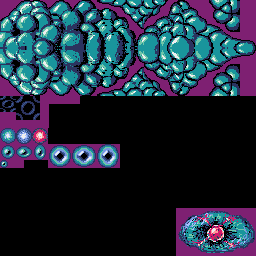
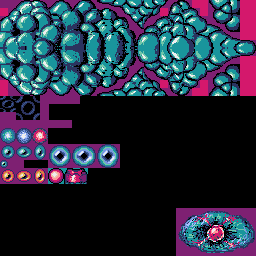
細胞ステージ

diff --git a/enemy.py b/enemy.py
@@ -693,3 +693,119 @@ class DockArm(EnemyBase):
 		pyxel.blt(self.x, self.y -self.shift, 1, 240, 64, 16, 80, gcommon.TP_COLOR)
 		pyxel.blt(self.x, self.y+ 96 +self.shift, 1, 240, 64, 16, 80, gcommon.TP_COLOR)
 		
+
+
+class Cell1(EnemyBase):
+	def __init__(self, t):
+		super(Cell1, self).__init__()
+		self.x = t[2]
+		self.y = t[3]
+		self.left = 2
+		self.top = 2
+		self.right = 13
+		self.bottom = 13
+		self.hp = 15
+		#self.layer = gcommon.C_LAYER_UNDER_GRD
+		self.layer = gcommon.C_LAYER_SKY
+		self.score = 100
+
+	def update(self):
+		if self.cnt & 32 == 0:
+			dr = gcommon.get_direction_my(self.x +8, self.y +8)
+			self.x += gcommon.direction_map[dr][0] * 1.25
+			self.y -= gcommon.direction_map[dr][1] * 1.25
+		if self.cnt & 127 == 127:
+			enemy_shot(self.x +8, self.y +8, 2, 0)
+		
+	def draw(self):
+		n = int(self.cnt/5) %3
+		pyxel.blt(self.x, self.y, 1, 0 + n* 16, 168, 16, 16, gcommon.TP_COLOR)
+
+
+class Cell1Group1(EnemyBase):
+	def __init__(self, t):
+		super(Cell1Group1, self).__init__()
+		self.startX = t[2]
+		self.startY = t[3]
+		self.hv = t[4]			# 0 横から出現   1: 上下から出現
+		self.hitCheck = False
+		self.shotHitCheck = False
+
+	def update(self):
+		if self.hv == 0:
+			if self.cnt == 0:
+				gcommon.ObjMgr.addObj(Cell1([0,0, self.startX, self.startY]))
+			elif self.cnt == 20:
+				gcommon.ObjMgr.addObj(Cell1([0,0, self.startX, self.startY + 50]))
+			elif self.cnt == 40:
+				gcommon.ObjMgr.addObj(Cell1([0,0, self.startX, self.startY + 20]))
+			elif self.cnt == 60:
+				gcommon.ObjMgr.addObj(Cell1([0,0, self.startX, self.startY + 70]))
+			elif self.cnt == 80:
+				gcommon.ObjMgr.addObj(Cell1([0,0, self.startX, self.startY + 30]))
+				self.remove()
+		else:
+			if self.cnt == 0:
+				gcommon.ObjMgr.addObj(Cell1([0,0, self.startX, self.startY]))
+			elif self.cnt == 20:
+				gcommon.ObjMgr.addObj(Cell1([0,0, self.startX +50, self.startY]))
+			elif self.cnt == 40:
+				gcommon.ObjMgr.addObj(Cell1([0,0, self.startX +20, self.startY]))
+			elif self.cnt == 60:
+				gcommon.ObjMgr.addObj(Cell1([0,0, self.startX +70, self.startY]))
+			elif self.cnt == 80:
+				gcommon.ObjMgr.addObj(Cell1([0,0, self.startX +30, self.startY]))
+				self.remove()
+
+	def draw(self):
+		pass
+
+
+class Worm1(EnemyBase):
+	def __init__(self, t):
+		super(Worm1, self).__init__()
+		pos = gcommon.mapPosToScreenPos(t[2], t[3])
+		self.x = pos[0]
+		self.y = pos[1]
+		self.downward = t[4]		# 0:上向き  1:下向き
+		self.left = 2
+		self.top = 2
+		self.right = 21
+		self.bottom = 15
+		self.hp = 40
+		#self.layer = gcommon.C_LAYER_UNDER_GRD
+		self.layer = gcommon.C_LAYER_GRD
+		self.score = 100
+		self.dr = 48
+		self.cells = []
+		for i in range(0,6):
+			self.cells.append([0,0])
+
+	def update(self):
+		if self.state == 0:
+			# 待機状態
+			if gcommon.get_distance_my(self.x + 12, self.y) < 100:
+				print("get_distance")
+				self.nextState()
+		elif self.state == 1:
+			# 触手伸ばす
+			x = 0
+			y = 0
+			r = 0
+			for pos in self.cells:
+				pos[0] = x + math.cos(gcommon.atan_table[(self.dr + r) & 63]) * 12 * (self.cnt) /30.0
+				pos[1] = y + math.sin(gcommon.atan_table[(self.dr + r) & 63]) * 12 * (self.cnt) /30.0
+				x = pos[0]
+				y = pos[1]
+				r += 1
+			if self.cnt == 30:
+				self.nextState()
+		
+	def draw(self):
+		size = len(self.cells)
+		i = 0
+		while(i<size):
+			pos = self.cells[size -1 -i]
+			pyxel.blt(self.x + 4 + pos[0], self.y + pos[1], 1, 48, 168, 16, 16, 3)
+			i += 1
+		pyxel.blt(self.x, self.y, 1, 64, 168, 24, 16, 3)

diff --git a/graslay.py b/graslay.py
@@ -490,9 +490,13 @@ class MapDraw2:
 	def update(self):
 		gcommon.map_x += gcommon.cur_scroll_x
 		gcommon.map_y += gcommon.cur_scroll_y
-
+		
 	def draw(self):
-		pyxel.bltm(-1 * (int(gcommon.map_x/2) % 8), 0, 0, int((gcommon.map_x/16)%3), 128, 33,33, gcommon.TP_COLOR)
+		dx = -1.0 * (int(gcommon.map_x/2) % 8)
+		dy = -1.0 * (int(gcommon.map_y/2) % 8)
+		sx = (int(gcommon.map_x/16)%3)
+		sy = 128 +(int(gcommon.map_y/16)%3)
+		pyxel.bltm(dx, 0, 0, sx, 128, 33,33, gcommon.TP_COLOR)
 		if gcommon.map_x < 0:
 			pyxel.bltm(-1 * int(gcommon.map_x), -1 * (int(gcommon.map_y) % 8), 0, 0, (int)(gcommon.map_y/8),33,33, gcommon.TP_COLOR)
 		else:
@@ -512,7 +516,6 @@ class StartMapDraw2:
 		gcommon.drawMap = MapDraw2()
 		gcommon.map_x = 0
 		gcommon.map_y = 24*8
-		print("StartMapDraw2")
 
 	def do(self):
 		pass
@@ -866,7 +869,7 @@ class MainGame:
 	def initEvent2(self):
 		self.eventTable =[ \
 			[0,StartMapDraw2],		\
-			[738,SetMapScroll, 0.25, 0.25],	\
+			[736,SetMapScroll, 0.25, 0.25],	\
 			[1104,SetMapScroll, -0.25, 0.25],	\
 			[1856,SetMapScroll, 0.5, 0.0],	\
 			[2208,SetMapScroll, 0.25, 0.25],	\
@@ -972,6 +975,14 @@ class MainGame:
 
 	def initStory2(self):
 		self.story=[ \
+			[180, enemy.Cell1Group1, 256, 10, 0],		\
+			[240, enemy.Cell1Group1, 256, 60, 0],		\
+			[260, enemy.Cell1Group1, -16, 60, 0],		\
+			[320, enemy.Cell1Group1, 256, 20, 0],		\
+			[400, enemy.Cell1Group1, 256, 50, 0],		\
+			[1100, enemy.Cell1Group1, 20, 192, 1],		\
+			[1500, enemy.Cell1Group1, 0, 192, 1],		\
+			[2400, enemy.Worm1, 90, 91, 1],		\
 		]
 
 	def initStory3(self):

diff --git a/gcommon.py b/gcommon.py
@@ -122,7 +122,7 @@ sin_table = []
 #    5     7
 #       6
 direction_map = [		\
-[1,0],[0.701,0.701],	\
+[1,0],[0.701,-0.701],	\
 [0,-1],[-0.701,-0.701],	\
 [-1,0],[-0.701,0.701],	\
 [0,1],[0.701,0.701]]
